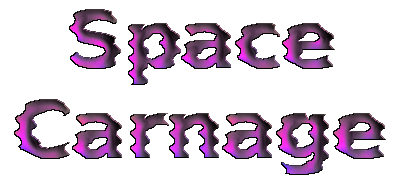
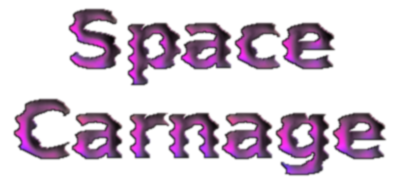
Add files via upload

diff --git a/src/text.js b/src/text.js
@@ -32,7 +32,7 @@ export default class Text {
     );
     this.textSound = new Sound("/sounds/textSound.m4a", 4, 0.15);
     //this.textSound.play();
-    this.ticks = 0;
+    this.ticks = -80;
     this.completed = false;
   }
 
@@ -53,7 +53,14 @@ export default class Text {
     } else if (this.ticks === 28) {
       this.textSprite.sourceWidth = 22;
       this.textSprite.width = 44;
-      //this.textSound.play();
+      if (
+        this.textLine === 0 ||
+        this.textLine === 1 ||
+        this.textLine === 2 ||
+        this.textLine === 3
+      ) {
+        this.completed = true;
+      }
     } else if (this.ticks === 35) {
       this.textSprite.sourceWidth = 26;
       this.textSprite.width = 52;
@@ -61,8 +68,6 @@ export default class Text {
     } else if (this.ticks === 42) {
       this.textSprite.sourceWidth = 33;
       this.textSprite.width = 66;
-
-      //this.textSound.play();
     } else if (this.ticks === 49) {
       this.textSprite.sourceWidth = 35;
       this.textSprite.width = 70;
@@ -70,8 +75,6 @@ export default class Text {
     } else if (this.ticks === 56) {
       this.textSprite.sourceWidth = 41;
       this.textSprite.width = 82;
-
-      //this.textSound.play();
     } else if (this.ticks === 63) {
       this.textSprite.sourceWidth = 43;
       this.textSprite.width = 86;
@@ -79,7 +82,6 @@ export default class Text {
     } else if (this.ticks === 70) {
       this.textSprite.sourceWidth = 50;
       this.textSprite.width = 100;
-      //this.textSound.play();
     } else if (this.ticks === 77) {
       this.textSprite.sourceWidth = 57;
       this.textSprite.width = 114;
@@ -98,7 +100,6 @@ export default class Text {
     } else if (this.ticks === 105) {
       this.textSprite.sourceWidth = 83;
       this.textSprite.width = 166;
-      //this.textSound.play();
     } else if (this.ticks === 112) {
       this.textSprite.sourceWidth = 88;
       this.textSprite.width = 176;
@@ -110,7 +111,6 @@ export default class Text {
     } else if (this.ticks === 126) {
       this.textSprite.sourceWidth = 99;
       this.textSprite.width = 198;
-      this.completed = true;
     } else if (this.ticks === 133) {
       this.textSprite.sourceWidth = 101;
       this.textSprite.width = 202;

diff --git a/src/game.js b/src/game.js
@@ -42,7 +42,7 @@ export default class Game {
     );
     this.text0 = new Text(
       this.screenWidth / 2 - 47,
-      250,
+      230,
       10,
       24,
       0,
@@ -76,7 +76,7 @@ export default class Game {
     );
 
     this.text4 = new Text(
-      this.screenWidth / 2 - 97,
+      this.screenWidth / 2 - 102,
       372,
       10,
       24,
@@ -85,8 +85,8 @@ export default class Game {
     );
 
     this.text5 = new Text(
-      this.screenWidth / 2 - 100,
-      422,
+      this.screenWidth / 2 - 105,
+      442,
       10,
       24,
       5,
@@ -871,6 +871,7 @@ export default class Game {
           //enemy.rotate(1);
         }
       }
+
       enemy.update(delta);
     });
   }
@@ -1031,6 +1032,7 @@ export default class Game {
     }
   }
   checkWhetherEnemiesRemaining() {
+    console.log(this.enemies.length);
     if (this.enemies.length <= 0) {
       this.currentStage += 1;
       if (this.currentStage >= this.level.stages) {

diff --git a/src/level.js b/src/level.js
@@ -361,30 +361,6 @@ export default class Level {
           10,
           0,
           "./enemies.png"
-        ),
-        new Enemy(
-          this.screenWidth + 250,
-          this.screenHeight / 2,
-          180,
-          10,
-          0,
-          "./enemies.png"
-        ),
-        new Enemy(
-          this.screenWidth + 290,
-          this.screenHeight / 2,
-          180,
-          10,
-          0,
-          "./enemies.png"
-        ),
-        new Enemy(
-          this.screenWidth + 330,
-          this.screenHeight / 2,
-          180,
-          10,
-          0,
-          "./enemies.png"
         )
       );
     }
